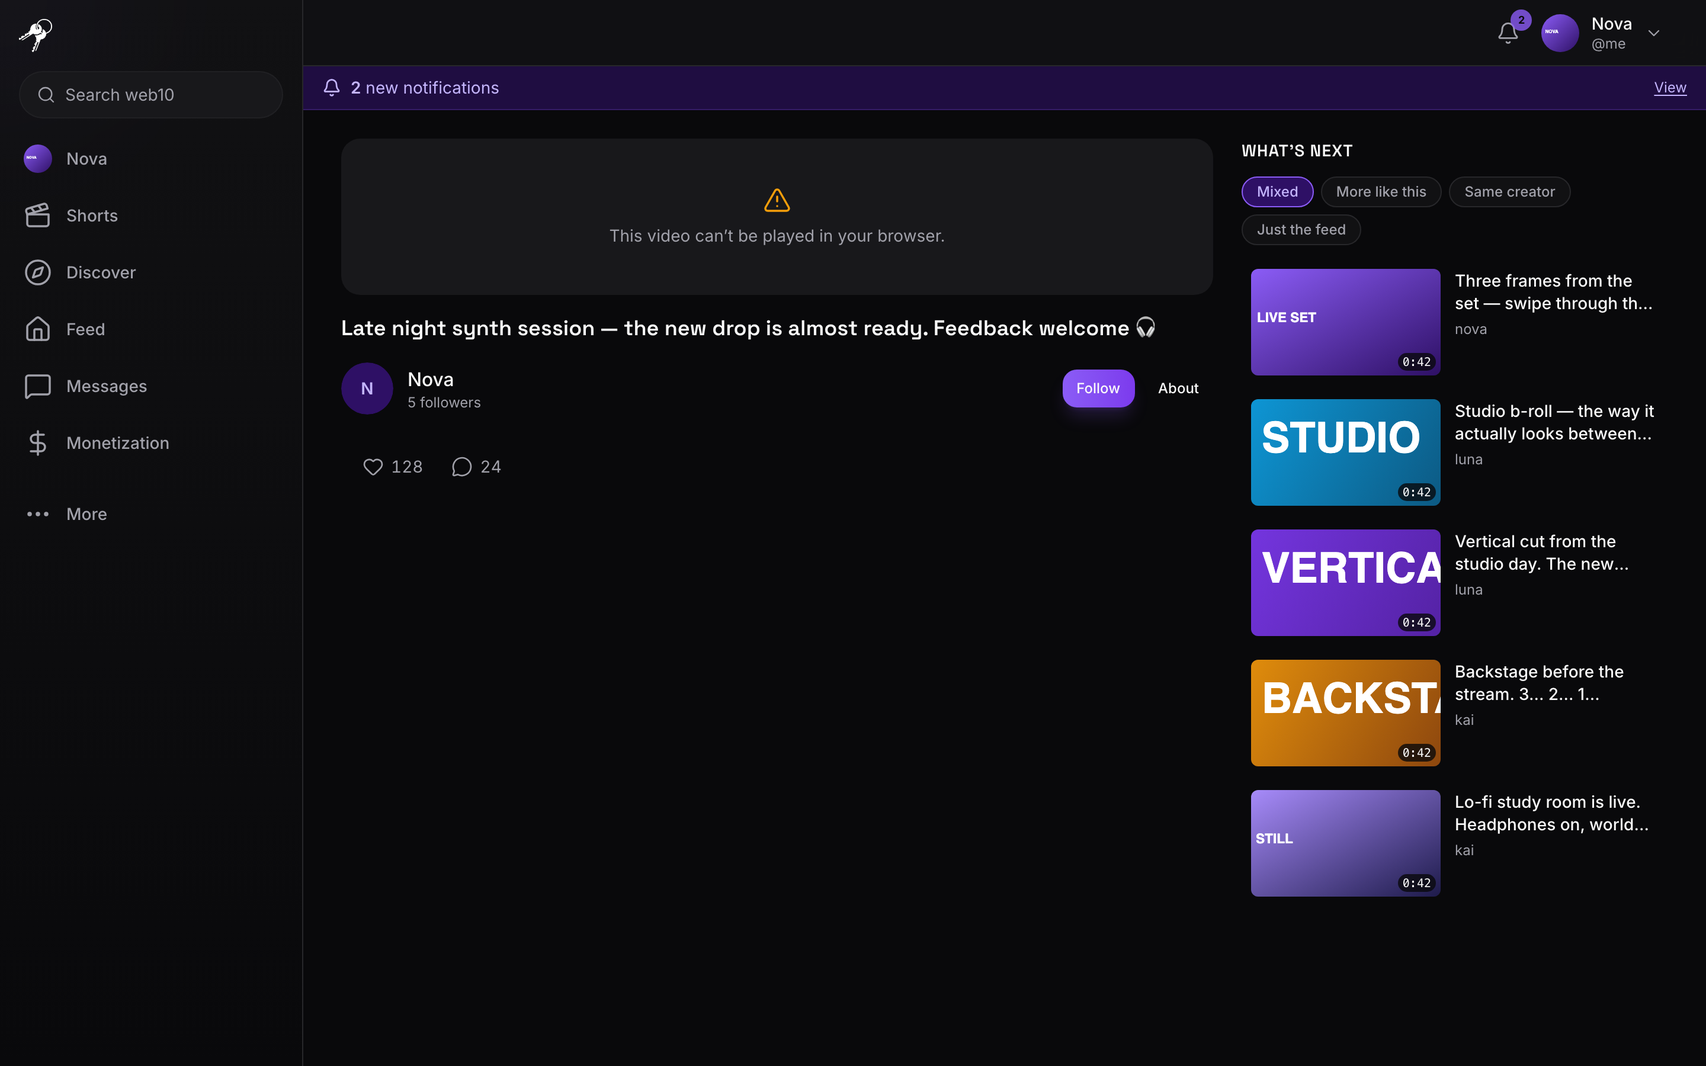
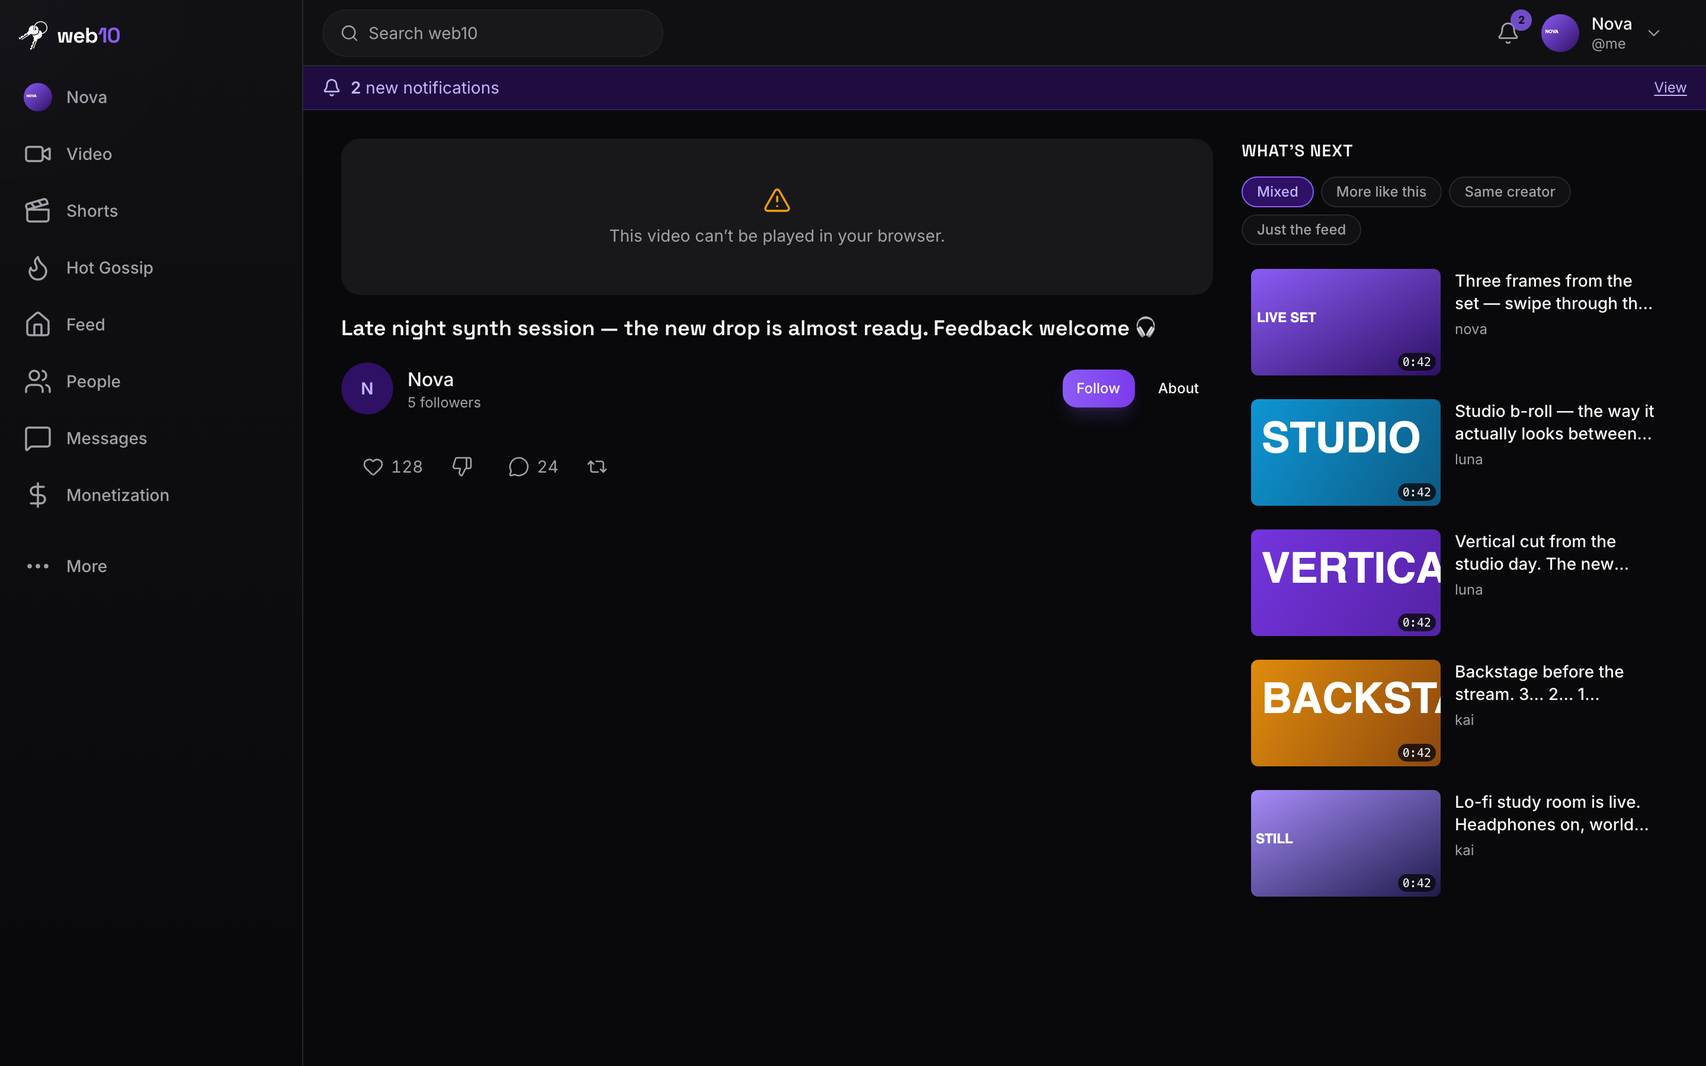
fix(web10-social): watch page resolves author + dislike/repost buttons (#1057)
* fix(web10-social): watch page resolves the video's author + renders the dislike / repost buttons (3.175.1)

* chore: renumber watch-page fix to 3.176.1 (dev carried 3.176.0) + merge origin/dev

diff --git a/marketing/web10-social/src/__tests__/watchScreen.test.tsx b/marketing/web10-social/src/__tests__/watchScreen.test.tsx
@@ -13,15 +13,18 @@ const NOW = '2026-09-28T12:00:00.000Z';
 const H = 3_600_000;
 const at = (hoursAgo: number) => new Date(Date.parse(NOW) - hoursAgo * H).toISOString();
 
+// The post doc the node returns: the author lives in `author_key` — the body
+// carries NO author fields (the write path never puts them there). The watch
+// page must derive the author from author_key (fromV3DocToPost), not the body.
+
 const CURRENT = {
   doc_id: 'post-cur',
+  author_key: 'test.localhost/users/alex',
   created_at: at(1),
   updated_at: at(1),
   tags: ['climbing'],
   body: {
     text: 'Free soloing the north face',
-    author_username: 'alex',
-    author_provider: 'web10',
     media_refs: [{ doc_id: 'm-cur', mime_type: 'video/mp4', read_url: 'https://cdn/v/cur.mp4', width: 1280, height: 720, duration_seconds: 90, thumbnail_url: 'https://cdn/t/cur.jpg' }],
   },
 };
@@ -64,7 +67,11 @@ const MEDIA: Record<string, unknown> = {
 // The V3 client the screen uses for readById (the post) + the engagement read
 // (reactions/comments over the discover group). `fakeV3Read` is hoisted (the
 // vi.mock factory runs before any top-level const).
-const { fakeV3Read, fakeReadById } = vi.hoisted(() => ({ fakeV3Read: vi.fn(), fakeReadById: vi.fn() }));
+const { fakeV3Read, fakeReadById, setRepostingToSpy } = vi.hoisted(() => ({ fakeV3Read: vi.fn(), fakeReadById: vi.fn(), setRepostingToSpy: vi.fn() }));
+
+vi.mock('@/context/RepostContext', () => ({
+  useRepost: () => ({ repostingTo: null, setRepostingTo: setRepostingToSpy, clearReposting: vi.fn() }),
+}));
 
 vi.mock('@/data', async (importOriginal) => {
   const original = await importOriginal() as Record<string, unknown>;
@@ -72,6 +79,7 @@ vi.mock('@/data', async (importOriginal) => {
   // beforeEach wipes factory-set implementations, so they must be re-set there).
   return {
     ...original,
+    readPostById: vi.fn(),
     readDiscoverFeed: vi.fn(),
     resolveMediaRefs: vi.fn(),
     readUserProfile: vi.fn(),
@@ -103,6 +111,9 @@ async function renderWatch(path = '/watch/post-cur') {
     <MemoryRouter initialEntries={[path]}>
       <Routes>
         <Route path="/watch/:postId" element={<WatchScreen />} />
+        {/* The repost seam navigates here (the app-level composer lives on the
+            feed route) — a marker so the navigation is assertable. */}
+        <Route path="/feed" element={<div data-testid="feed-route" />} />
       </Routes>
     </MemoryRouter>,
   );
@@ -145,8 +156,11 @@ beforeEach(() => {
   // The V3 client (readById for the post + read for the engagement). clearAllMocks
   // wipes the factory's mockReturnValue, so re-establish it here.
   (data.getV3Client as ReturnType<typeof vi.fn>).mockReturnValue({ read: fakeV3Read, readById: fakeReadById });
-  // The post by id (the watch page's primary read).
-  fakeReadById.mockResolvedValue(CURRENT);
+  // The post by id (the watch page's primary read) — the canonical mapper
+  // (fromV3DocToPost) derives the author from author_key.
+  (data.readPostById as ReturnType<typeof vi.fn>).mockResolvedValue(
+    data.fromV3DocToPost(CURRENT as never),
+  );
   // The engagement read (reactions/comments over the discover group) — empty.
   fakeV3Read.mockResolvedValue([]);
 });
@@ -165,6 +179,43 @@ describe('WatchScreen (the watch page)', () => {
     expect(screen.getByTestId('watch-author-row')).toHaveTextContent('4,200 followers');
     // The follow button (signed-in).
     expect(screen.getByTestId('watch-follow-button')).toHaveTextContent('Follow');
+  });
+
+  it('resolves the author from the doc author_key when the profile read fails (never "Unknown")', async () => {
+    // Regression: the old screen read `body.author_username`, which the write
+    // path never sets — the author lives in `author_key`. With no profile, the
+    // row must fall back to the author_key username, not "Unknown".
+    (data.readUserProfile as ReturnType<typeof vi.fn>).mockRejectedValue(new Error('no profile'));
+    await renderWatch();
+    await waitFor(() => expect(screen.getByTestId('watch-author-row')).toBeInTheDocument());
+    const row = screen.getByTestId('watch-author-row');
+    expect(row).toHaveTextContent('alex');
+    expect(row).not.toHaveTextContent('Unknown');
+  });
+
+  it('renders the dislike + repost buttons (the watch page is a full engagement surface)', async () => {
+    await renderWatch();
+    await waitFor(() => expect(screen.getByTestId('watch-post-actions')).toBeInTheDocument());
+    expect(screen.getByTestId('dislike-button')).toBeInTheDocument();
+    expect(screen.getByTestId('repost-button')).toBeInTheDocument();
+  });
+
+  it('tapping the dislike thumb reports the dislike reaction to the data layer', async () => {
+    await renderWatch();
+    const btn = await screen.findByTestId('dislike-button');
+    fireEvent.click(btn);
+    await waitFor(() =>
+      expect(data.toggleReactionKind).toHaveBeenCalledWith('post-cur', 'dislike', [data.getDiscoverGroupId()]),
+    );
+  });
+
+  it('tapping the repost icon opens the composer in repost mode and returns to the feed (the shared seam)', async () => {
+    await renderWatch();
+    const btn = await screen.findByTestId('repost-button');
+    fireEvent.click(btn);
+    await waitFor(() => expect(setRepostingToSpy).toHaveBeenCalledWith(expect.objectContaining({ _id: 'post-cur' })));
+    // The composer lives on the feed route — the watch page navigates there.
+    expect(screen.getByTestId('feed-route')).toBeInTheDocument();
   });
 
   it('renders the "What\'s next" queue (the board, re-ranked) + the relatedness chips', async () => {
@@ -206,7 +257,7 @@ describe('WatchScreen (the watch page)', () => {
   });
 
   it('shows the not-found state when the post is absent', async () => {
-    fakeReadById.mockRejectedValue(new Error('not found'));
+    (data.readPostById as ReturnType<typeof vi.fn>).mockResolvedValue(null);
     await renderWatch();
     await waitFor(() => expect(screen.getByText('Video not found')).toBeInTheDocument());
   });

diff --git a/marketing/web10-social/src/components/Watch/WatchScreen.tsx b/marketing/web10-social/src/components/Watch/WatchScreen.tsx
@@ -17,6 +17,7 @@ import { Button } from '@/components/ui/button';
 import { Skeleton } from '@/components/ui/skeleton';
 import {
   readDiscoverFeed,
+  readPostById,
   resolveMediaRefs,
   getV3Client,
   getDiscoverGroupId,
@@ -39,6 +40,7 @@ import {
   type ReactionKind,
 } from '@/data';
 import { getWapi } from '@/data/wapi';
+import { useRepost } from '@/context/RepostContext';
 import { defaultKnobState, knobStateToSort, type KnobState, type PowerMeanSortConfig } from '@/lib/powerMean';
 import {
   rankWatchQueue,
@@ -345,20 +347,11 @@ export default function WatchScreen() {
 
       // 1. The post by doc_id (anon-capable — the node's read-by-id is
       //    user_or_anon, so a signed-out visitor lands on a working screen).
-      let p: PostRecord | null = null;
-      try {
-        const doc = await w.readById(postId, 'posts');
-        p = {
-          _id: doc.doc_id,
-          text: (doc.body.text as string) || undefined,
-          media_refs: (doc.body.media_refs as (string | ResolvedMediaRef)[]) || undefined,
-          created_at: doc.created_at,
-          updated_at: doc.updated_at,
-          tags: doc.tags || (doc.body.tags as string[]) || undefined,
-          author_username: (doc.body.author_username as string) || undefined,
-          author_provider: (doc.body.author_provider as string) || undefined,
-        };
-      } catch { /* not found */ }
+      //    The canonical mapper (`fromV3DocToPost`) derives the author from
+      //    the doc's `author_key` — the post body carries no author fields
+      //    (the write path never puts them there), so a body read renders
+      //    "Unknown".
+      const p = await readPostById(postId);
       if (!p) { setNotFound(true); setLoading(false); return; }
       setPost(p);
 
@@ -483,6 +476,18 @@ export default function WatchScreen() {
       setDislikes((v) => Math.max(0, v - dislikeDelta));
     }
   }, [token, post, liked, disliked]);
+
+  // ── Repost (reposts.md): a repost is a POST, not a reaction toggle. The
+  //    repeat icon opens the app-level composer in repost mode (the shared
+  //    RepostContext seam — the same composer the feed uses) and returns to
+  //    the feed, where the composer lives. The composer's createRepost is the
+  //    single write; the count + fill re-derive on the next load.
+  const { setRepostingTo } = useRepost();
+  const handleRepost = useCallback(() => {
+    if (!token || !post) return;
+    setRepostingTo(post);
+    navigate('/feed');
+  }, [token, post, setRepostingTo, navigate]);
 
   // ── Follow toggle (the overlay + the author row) ───────────────────────────
   const handleToggleFollow = useCallback(async () => {
@@ -628,9 +633,12 @@ export default function WatchScreen() {
           reposted={reposted}
           repostCount={reposts}
           onToggleReaction={(kind) => void handleToggleReaction(kind)}
+          onToggleRepost={handleRepost}
           groups={[getDiscoverGroupId()]}
           postAuthor={author}
           onAuthorClick={(username, provider) => navigate(`/u/${username}`, { state: { provider: provider || '' } })}
+          dislike="interactive"
+          repost={isAnon ? 'display' : 'interactive'}
           testId="watch-post-actions"
         />
       </div>

diff --git a/marketing/web10-social/screenshots/harness/mock-data.ts b/marketing/web10-social/screenshots/harness/mock-data.ts
@@ -1195,10 +1195,26 @@ export async function lookupUserProfile(username?: string): Promise<unknown> {
 }
 // A repost's embed (reposts.md) reads the original by doc_id. The harness
 // returns the seeded feed post that the repost references (fp-2 = luna's post),
-// so the "reposted" card renders the embedded original.
+// so the "reposted" card renders the embedded original. The watch page's
+// primary read (a discover post, e.g. dp-1) also lands here — the author is
+// derived from the doc's author_key (fromV3DocToPost), matching the node.
 export async function readPostById(docId: string): Promise<unknown> {
   const p = FEED_POSTS.find((x) => x._id === docId);
-  if (!p) return null;
+  if (!p) {
+    const d = DISCOVER_POSTS.find((x) => (x._id as string) === docId);
+    if (!d) return null;
+    return {
+      _id: d._id,
+      text: d.text,
+      created_at: d.created_at,
+      tags: d.tags,
+      author_username: d.author_username,
+      author_provider: d.author_provider,
+      media_refs: d.media_refs,
+      profile: { display_name: d.author_username === 'nova' ? 'Nova' : d.author_username },
+      ad: d.ad,
+    };
+  }
   return {
     _id: p._id,
     text: p.text,

diff --git a/knowledge/changelogs/CHANGELOG.md b/knowledge/changelogs/CHANGELOG.md
@@ -1,3 +1,5 @@
+3.176.1 || 29.09.2026
+fix(web10-social) + test + docs(kb): **the watch page resolves the video's author + renders the dislike / repost buttons** — operator pass (29.09.2026, watch-page screenshot): "video isnt correctly resolving the author, isnt showing dislike or repost button either". **Two bugs, both `WatchScreen.tsx` (no node change — D60):** (1) **The author rendered "Unknown" / "@"** — the screen read the post by `doc_id` and hand-mapped the doc, taking the author from `doc.body.author_username` / `doc.body.author_provider`. But the write path never puts author fields in the post body — the author lives in the doc's **`author_key`** (the canonical mapper `fromV3DocToPost` derives it via `extractUsername` / `extractProvider`). So `author` was always `''` → the row fell through to the `'Unknown'` fallback and the `@` handle was empty. The fix reads the post through the data layer's `readPostById` (the canonical `fromV3DocToPost`), so the author resolves from `author_key` exactly like every other surface. (2) **The dislike + repost buttons were missing** — the watch page rendered the shared `PostActions` without the `dislike` / `repost` axes, so they defaulted to `'none'` (the shared component's safe default for a surface that doesn't wire them). The feed + lightbox both pass `dislike="interactive"` + `repost="interactive"`; the watch page now does too. The repost icon opens the app-level composer in repost mode via the shared `RepostContext` seam (`setRepostingTo(post)` → navigate to `/feed`, where the composer lives — the same seam the feed / discover / lightbox use); for an anon visitor the repost is `display`-only (a signed-out fan can't repost, mirroring the like). **Tests:** `watchScreen.test.tsx` re-pinned to the real doc shape (the seeded post carries `author_key`, no body author fields — the old fixture faked `body.author_username`, which is exactly what masked bug 1) + `readPostById` is now the mocked seam; +4 regression tests (author resolves from `author_key` when the profile read fails → never "Unknown"; the dislike + repost buttons render; tapping the dislike thumb reports the dislike reaction; tapping the repost icon opens the composer in repost mode + returns to the feed). 1101 web10-social green, `tsc` clean. Screenshots: `watch-{desktop,375}.png` re-captured (the author row shows the resolved name + follower count; the engagement bar carries the like/dislike pair + the repost repeat icon).
 3.176.0 || 29.09.2026
 feat(web10-social) + test + docs(kb): **the Instagram finish — the profile wall caps at 4 columns (responsive down) + the post lightbox gets the side `<` `>` arrows to step through the profile's posts** — operator pass (29.09.2026, a wide-screen profile screenshot showing 7 skinny wall tiles): "this is ridiculous looking, should be 4 posts wide to match insta, right? like 4 columns? and responsive, so if smaller, then less columns, way too many columns here" + "AND instagram has those arrows on the side that go next next next, so on the profile should do that <> to go through posts when you are in a modal" + "shorts doesnt do that, because it is tik tok style". **Two refinements to the 3.175.0 TikTok-kin wall, both client-side (D60):** **(1) The wall caps at 4 columns.** The 3.175.0 wall used `repeat(auto-fill, minmax(160px, 1fr))` — no upper bound, so a wide screen rendered 7+ skinny 9:16 tiles (the "ridiculous" screenshot). The grid is now `repeat(auto-fill, minmax(max(160px, 25%), 1fr))` — each column is **at least 25% of the container wide** (so never more than 4 columns) **and never narrower than 160px** (so fewer columns as the width shrinks: ~2 on a phone, 3 on a laptop, 4 on a wide monitor). The same one-line change lands on all three walls that share the shape — the profile's **Posts** + **Media** tabs (`UserProfileScreen.tsx`) and the **Shorts** explore wall (`ShortsWall.tsx`) — so the profile and Shorts stay the same visual language (the operator: "shorts doesnt do that [the arrows], because it is tik tok style" — the wall cap applies to both, the arrows do not). **(2) The post lightbox steps through the profile's posts.** `PostLightbox` gains an optional **post-nav seam** (`onPrevPost`/`onNextPost`): when the parent supplies it, Instagram-style `<` `>` arrows render **on the backdrop, outside the panel** (the `post-lightbox-prev-post`/`post-lightbox-next-post` hooks), and `ArrowLeft`/`ArrowRight` step the profile's posts (wrapping, like the Instagram grid). The profile (`UserProfileScreen`) owns the list + index and swaps the `post` prop; the lightbox re-syncs its internal `currentPost` + media index on a prop change (a `useEffect` keyed on `post` — the initial mount is a no-op). **The seam is opt-in:** the in-pane media-carousel arrows (a post's own multi-frame) are a separate, inner navigation and are unchanged — with post nav present the keyboard arrows step *posts*, not frames; without it (the deep-link lightbox, Groups, the single-post case) the behavior is exactly as before. The Shorts lens gets no arrows (TikTok-style vertical swipe only). **Tests:** new `profileLightboxPostNav.test.tsx` (6 — the arrows render with >1 post; next/prev step the profile's posts in place; navigation wraps last→first + first→last; a single-post profile shows no arrows; `ArrowRight`/`ArrowLeft` step posts; the in-pane media carousel still pages a post's own frames independently). 1086 web10-social green, `tsc --noEmit` clean. **KB:** `social/shorts.md` (the wall's grid is capped at 4, decision #9 refined) + `social/video-player.md` (the modal modality gains the post-nav arrows). Screenshots `profile-{desktop,375}.png` re-captured (the 4-column wall) + new `profile-lightbox-{desktop,375}.png` (the backdrop arrows) + `shorts-wall-{desktop,375}.png` re-captured. Lane: `social-v3` in `parallel-execution.md`.
 

diff --git a/knowledge/strategy/parallel-execution.md b/knowledge/strategy/parallel-execution.md
@@ -873,6 +873,7 @@ Permalinks (D71)".
 - [✓ 3.170.0] **W3: the author overlay** (`AuthorOverlay` in `WatchScreen.tsx`) — the author row opens a profile overlay (desktop: right-side drawer over the queue; mobile: bottom sheet): face, display name, bio, follower count, Follow/Unfollow, a strip of recent posts, and **"View all posts"** → `/u/:username` (the one explicit navigation out). Reuses `readUserProfile` / `readUserPublicProfile` (the 3.166.0 read) + the existing follow seam — no new data layer. The "stay on the train" rule: reaching the author does not leave the watch page; the video keeps playing at the same `?t=`. `data-testid` hooks + tests (overlay opens on author click, follow toggles, "View all posts" navigates, close returns to the video). **Gated on W1.**
 - [✓ 3.170.0] **W4: the Home card's click re-point (aspect-ratio branch)** (`DiscoverScreen.tsx` `DiscoverHomeCard.onPostClick`, or `HomeCard`'s click seam) — the Home tile's click branches on the resolved media's aspect ratio: **portrait (`width < height`) → `/shorts/:postId`**, **landscape → `/watch/:postId?from=discover&knobs=…&related=…`** (carrying the current `?knobs=` + the saved/URL relatedness). Replaces the old `navigateToPost → /u/:username/p/:postId` (profile + lightbox) as the Home card's destination. The `?knobs=` + `?related=` hand-off is the "keep you in the same feed settings" rule. The Hot Gossip view is untouched (it stays inline — the full post card, no watch page). Tests: a portrait tile → `/shorts/:id`, a landscape tile → `/watch/:id?from=discover&knobs=…`, the knobs + relatedness ride along. **Gated on W1.**
 - [ ] **W5: the e2e + screenshot pass** (`e2e/tests/social-watch.spec.ts`, `screenshots/`) — API floor: the watch page's exact read (read-by-doc_id + the discover-board queue read + the I3 anti-test: a non-public post is not watchable anon). Browser gauntlet: Home wall → click a landscape tile → the watch page renders (video + queue + comments) → click a queue item → the next video → browser back → the wall (same `?knobs=`). The `?t=` round-trip (seek + the replace-write). Screenshots: `watch-{desktop,375}.png` + the author overlay, via the self-booting harness (the harness gains the `/watch/:postId` route + a seeded landscape video + a board of tagged posts so the queue re-ranks visibly). design.md §12 acceptance bar. **Screenshots + the harness route done (3.170.0: `watch-{desktop,375}.png` captured, the harness gains the `/watch/:postId` route + `readById` + the seeded board); the browser e2e gauntlet (`social-watch.spec.ts`) is still open.** **Gated on W1–W4.**
+- [✓ 3.176.1] **W6: the author resolves + the engagement bar is complete (dislike + repost)** (`src/components/Watch/WatchScreen.tsx`) — operator pass (29.09.2026, watch-page screenshot): "video isnt correctly resolving the author, isnt showing dislike or repost button either". **Two bugs:** (1) the author rendered "Unknown" / "@" because the screen hand-mapped the read-by-doc_id doc and took the author from `doc.body.author_username` — a field the write path never sets (the author lives in the doc's `author_key`). Fixed by reading through the data layer's `readPostById` (the canonical `fromV3DocToPost`, which derives the author from `author_key` via `extractUsername` / `extractProvider`). (2) the dislike + repost buttons were absent because the shared `PostActions` was rendered without the `dislike` / `repost` axes (they default to `'none'`). Now `dislike="interactive"` + `repost="interactive"` (anon: `repost="display"`); the repost icon opens the app-level composer in repost mode via the shared `RepostContext` seam (`setRepostingTo(post)` → `/feed`, the same seam the feed / discover / lightbox use). **Tests:** `watchScreen.test.tsx` re-pinned to the real doc shape (seeded post carries `author_key`, no body author fields — the old fixture faked `body.author_username`, masking bug 1) + `readPostById` is the mocked seam; +4 regression tests. 1101 web10-social green, `tsc` clean. Screenshots: `watch-{desktop,375}.png` re-captured. **Gated on W1.**
 
 ### Lane: discover-split (Phase 3)
 **Owns:** `marketing/web10-social/src/components/Social/Layout.tsx` (the sidebar nav: the Discover item → the four destinations), `marketing/web10-social/src/components/Discover/DiscoverScreen.tsx` (the shell: the `?tab=` / `?view=` salad retires to four routes), `marketing/web10-social/src/App.tsx` (the four routes + the redirects), `marketing/marketing-ui/src/components/Navbar.tsx` (the top nav: `Home`→`About`, `Discover`→`Home`), `marketing/marketing-ui/src/App.tsx` (the marketing routes + the experience sidebar), `marketing/marketing-ui/src/pages/Trending.tsx` (the salad → the four flat destinations), `marketing/shared/discover/` (the shared cards, if the split touches them). **Spec:** `knowledge/knowledge-base/web10-v3/social/watch-page.md` → "The IA this lives inside (the Discover split)" (operator pass, 28.09.2026). **The Discover salad flattens to four sidebar destinations** — **Video · Shorts · Hot Gossip · People** (the video wall is called **Video**, not Home — it is called what it is, because it *is* videos). The `?view=` toggle + the `?tab=` row retire; each destination is a top-level route. **The marketing site leads with the product** (show, don't tell): the landing/pitch `Home` → **About**; the social experience `Discover` (`/trending`) → **Home** (the front door); the experience gets its own nav sidebar **Video · Shorts · Hot Gossip · People** ("youtube but two more things on the sidebar than youtube!"). **No node change (D60 — all client-side).** **Sequencing: lands AFTER the watch-page lane** (the watch page's entry point moves from "the Home view toggle" to "the Video sidebar item" with no change to the page itself).
